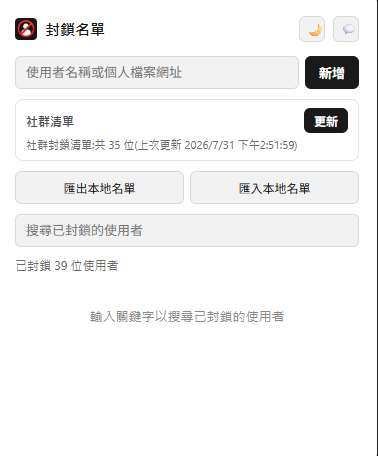
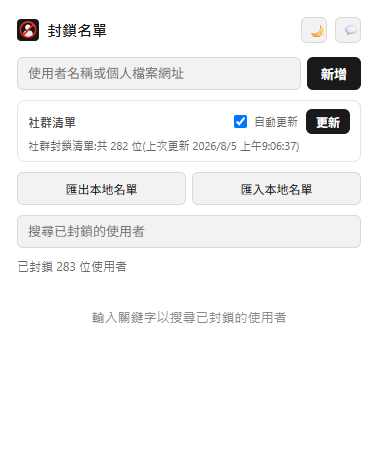
更新截圖

diff --git a/README.md b/README.md
@@ -31,10 +31,6 @@
 
 ![名單上傳截圖](./screenshots/popup-dialog.png)
 
-### 5. 外觀與自動更新設定
-
-![外觀設定截圖](./screenshots/popup-settings.png)
-
 ## ✨ 核心特色
 
 - **就地封鎖**:貼文的使用者名稱旁直接出現 🚫 按鈕,點擊後會先跳出確認提示,確認後才會生效,避免手滑誤觸
